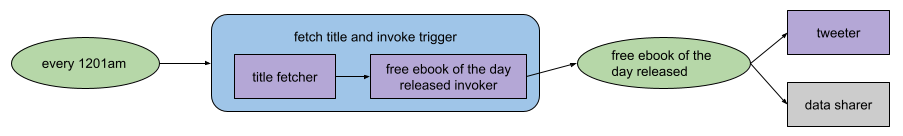
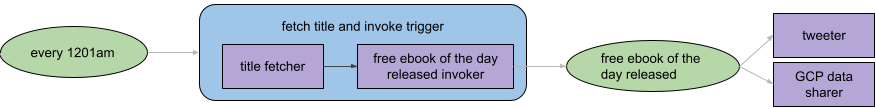
Created gcp-data-sharer action. Updated documentation, cleaned up repo, fixed Dependabot workflow.

diff --git a/gcp-data-sharer/src/main/java/com/mattwelke/packtbookbot/GcpDataSharer.java b/gcp-data-sharer/src/main/java/com/mattwelke/packtbookbot/GcpDataSharer.java
@@ -1,0 +1,116 @@
+package com.mattwelke.packtbookbot;
+
+import java.io.ByteArrayInputStream;
+import java.io.IOException;
+import java.text.DateFormat;
+import java.text.SimpleDateFormat;
+import java.time.Instant;
+import java.util.Base64;
+import java.util.Date;
+import java.util.HashMap;
+import java.util.List;
+import java.util.Map;
+
+import com.google.auth.oauth2.GoogleCredentials;
+import com.google.cloud.bigquery.BigQuery;
+import com.google.cloud.bigquery.BigQueryOptions;
+import com.google.cloud.bigquery.InsertAllRequest;
+import com.google.cloud.bigquery.InsertAllResponse;
+import com.google.cloud.bigquery.TableId;
+import com.owextendedruntimes.actiontest.Action;
+
+/**
+ * Given data about the Packt free book of the day, shares it publicly by
+ * writing it to Google Cloud Platform. Right now, that means inserting a row
+ * into a BigQuery table in a public BigQuery dataset.
+ */
+public class GcpDataSharer extends Action {
+    private static final String datasetName = "public_data";
+    private static final String tableName = "free_ebook_of_the_day";
+
+    /**
+     * Given data about the title, shares it via GCP.
+     */
+    @Override
+    public Map<String, Object> invoke(Map<String, Object> params) throws RuntimeException {
+        try {
+            var data = TitleData.of(params);
+            var bigquery = bigqueryClient(params);
+
+            InsertAllResponse response = bigquery.insertAll(
+                    InsertAllRequest.newBuilder(TableId.of(datasetName, tableName))
+                            .addRow(row(data))
+                            .build());
+
+            if (response.hasErrors()) {
+                var insertErrors = response.getInsertErrors().entrySet();
+                throw new RuntimeException(String.format("failed to insert into BigQuery: %s", insertErrors));
+            }
+
+            return Map.of("bigqueryInsertResponse", response);
+        } catch (Exception ex) {
+            throw new RuntimeException(String.format("failed to share data via GCP: %s", ex.getMessage()), ex);
+        }
+    }
+
+    /**
+     * Given a params map, returns an authenticated BigQuery client.
+     * 
+     * @param params The params map from the action invocation.
+     * @return A BigQuery client build from credentials in the params map.
+     * @throws IOException
+     */
+    private static BigQuery bigqueryClient(Map<String, Object> params) throws IOException {
+        if (!params.containsKey("gcpCreds") || ((String) params.get("gcpCreds")).length() < 1) {
+            throw new IllegalArgumentException("missing param gcpCreds");
+        }
+
+        var gcpCredsBytes = Base64.getDecoder().decode((String) params.get("gcpCreds"));
+
+        GoogleCredentials credentials = GoogleCredentials.fromStream(new ByteArrayInputStream(gcpCredsBytes));
+
+        return BigQueryOptions.newBuilder()
+                .setCredentials(credentials)
+                .build()
+                .getService();
+    }
+
+    /**
+     * Given title data, returns a row to insert into BigQuery.
+     * 
+     * @param data The title data.
+     * @return The row to insert.
+     */
+    private static Map<String, Object> row(TitleData data) {
+        Map<String, Object> rowContent = new HashMap<>();
+
+        DateFormat dateFormat = new SimpleDateFormat("yyyy-MM-dd");
+        Date date = new Date();
+        rowContent.put("day", dateFormat.format(date));
+
+        rowContent.put("title", data.title());
+
+        rowContent.put("publication_date", String.format("%s-%s-01",
+                data.pubDateYear(), PublicationDateMonths.monthNumber(data.pubDateMonth())));
+
+        rowContent.put("authors", data.authors());
+
+        rowContent.put("inserted_at", Instant.now().toString());
+
+        return rowContent;
+    }
+
+    /**
+     * For local testing.
+     * 
+     * @param args
+     */
+    public static void main(String[] args) {
+        new GcpDataSharer().invoke(Map.of(
+                "title", "Hands-On Software Engineering with Python",
+                "pubDateMonth", "October",
+                "pubDateYear", "2018",
+                "authors", List.of("Brian Allbee"),
+                "gcpCreds", (Object) System.getenv("GCP_CREDS")));
+    }
+}

diff --git a/gcp-data-sharer/src/main/java/com/mattwelke/packtbookbot/TitleData.java b/gcp-data-sharer/src/main/java/com/mattwelke/packtbookbot/TitleData.java
@@ -1,0 +1,51 @@
+package com.mattwelke.packtbookbot;
+
+import java.util.List;
+import java.util.Map;
+
+/**
+ * The data for a title obtainable from the free learning URL.
+ */
+public record TitleData(
+        String title,
+        List<String> authors,
+        String pubDateMonth,
+        String pubDateYear) {
+    /**
+     * Creates a record from an OpenWhisk action params map.
+     * 
+     * @param params Params map.
+     * @return The record.
+     */
+    static TitleData of(Map<String, Object> params) throws IllegalArgumentException {
+        if (!params.containsKey("title") || ((String) params.get("title")).length() < 1) {
+            throw new IllegalArgumentException("missing param \"title\"");
+        }
+        String title = (String) params.get("title");
+
+        if (!params.containsKey("authors")) {
+            throw new IllegalArgumentException("missing param \"freeBookURL\"");
+        }
+        List<String> authors = (List<String>) params.get("authors");
+        if (authors.size() < 1) {
+            throw new IllegalArgumentException("param \"authors\" needs at least one author");
+        }
+        for (String author : authors) {
+            if (author.length() < 1) {
+                throw new IllegalArgumentException("each author in param \"authors\" must be at least one character long");
+            }
+        }
+
+        if (!params.containsKey("pubDateMonth") || ((String) params.get("pubDateMonth")).length() < 1) {
+            throw new IllegalArgumentException("missing param \"pubDateMonth\"");
+        }
+        String pubDateMonth = (String) params.get("pubDateMonth");
+
+        if (!params.containsKey("pubDateYear") || ((String) params.get("pubDateYear")).length() < 1) {
+            throw new IllegalArgumentException("missing param \"pubDateYear\"");
+        }
+        String pubDateYear = (String) params.get("pubDateYear");
+
+        return new TitleData(title, authors, pubDateMonth, pubDateYear);
+    }
+}

diff --git a/gcp-data-sharer/src/main/java/com/owextendedruntimes/actiontest/Action.java b/gcp-data-sharer/src/main/java/com/owextendedruntimes/actiontest/Action.java
@@ -1,0 +1,32 @@
+package com.owextendedruntimes.actiontest;
+
+import java.util.Map;
+
+/**
+ * Parent class of all OpenWhisk Java action implementations. OpenWhisk users extend this class and override the invoke
+ * method to implement their actions.
+ */
+public abstract class Action {
+    /**
+     * The cluster context, aka "OpenWhisk variables", implemented in official runtimes by mutating the environment
+     * variables at runtime (no longer allowed by Java 9+). In this runtime, implemented as state contained within the
+     * parent class of the user's action.
+     */
+    protected Map<String, Object> clusterContext;
+
+    /**
+     * Sets the cluster context of the action so that it can be referenced by all invocations of the action if the
+     * OpenWhisk user wants to use it. This function should not be called by the OpenWhisk user.
+     * @param clusterContext The cluster context.
+     */
+    public void setClusterContext(Map<String, Object> clusterContext) {
+        this.clusterContext = clusterContext;
+    }
+
+    /**
+     * The method invoked by the OpenWhisk runtime in response to the action being invoked.
+     * @param input The input to the action during its invocation.
+     * @return The output of the action invocation.
+     */
+    public abstract Map<String, Object> invoke(Map<String, Object> input);
+}

diff --git a/gcp-data-sharer/src/main/java/com/mattwelke/packtbookbot/PublicationDateMonths.java b/gcp-data-sharer/src/main/java/com/mattwelke/packtbookbot/PublicationDateMonths.java
@@ -1,0 +1,33 @@
+package com.mattwelke.packtbookbot;
+
+/**
+ * Normalizes publication date month names.
+ */
+public class PublicationDateMonths {
+    /**
+     * Given a month's full month name, returns a two-digit string representing the
+     * number of the month.
+     * 
+     * Example: September -> "09"
+     * 
+     * @param fullMonthName The full month name.
+     * @return The two-digit string for the number of the month.
+     */
+    public static String monthNumber(final String fullMonthName) {
+        return switch (fullMonthName.toLowerCase()) {
+            case "january" -> "01";
+            case "february" -> "02";
+            case "march" -> "03";
+            case "april" -> "04";
+            case "may" -> "05";
+            case "june" -> "06";
+            case "july" -> "07";
+            case "august" -> "08";
+            case "september" -> "09";
+            case "october" -> "10";
+            case "november" -> "11";
+            case "december" -> "12";
+            default -> throw new IllegalStateException("Invalid full month name: " + fullMonthName);
+        };
+    }
+}

diff --git a/README.md b/README.md
@@ -2,39 +2,75 @@
 
 [![CodeQL](https://github.com/mattwelke/packt-book-bot/actions/workflows/codeql-analysis.yml/badge.svg?branch=main)](https://github.com/mattwelke/packt-book-bot/actions/workflows/codeql-analysis.yml)
 
-Twitter bot (https://twitter.com/PacktBookBot) that tweets on a schedule.
+Bot that tweets to Twitter (https://twitter.com/PacktBookBot) and logs data in BigQuery on GCP on a schedule.
 
-![Screenshot of free eBook of the day tweet](img/free_example.png)
+## Features
 
-## Current features
+### Free eBook of the day - every day at 12:01am UTC
+  
+#### Tweeted from Twitter bot
 
-- Free eBook of the day - every day at 12:01am UTC
+![Screenshot of free eBook of the day tweet](img/tweet_example.png)
 
-## Future features
+#### Logged in a public BigQuery table on GCP (Google Cloud Platform)
 
-- Monitoring for new titles, posting them as they are released (only if Packt Twitter handle doesn't do this already)
+```sql
+SELECT * FROM `packt-book-bot.public_data.free_ebook_of_the_day`
+ORDER BY inserted_at DESC
+```
 
-## Tech stack
+![screenshot of BigQuery results](img/bigquery_results.png)
 
-Written using Java 17, deployed to IBM Cloud Functions using the custom Java 17 runtime from https://github.com/ow-extended-runtimes/java-17.
+Any user authenticated to GCP is able to view this table's schema and query it because of its dataset's IAM configuration:
 
-Uses a periodic trigger to begin processing at 12:01am every day. Uses a custom trigger to decouple the data retrieval from use cases for the data. This enables future use cases like sharing the data on GCP BigQuery in a public dataset and with GCP Pub/Sub with a public topic.
+![Screenshot of BigQuery dataset IAM](img/bigquery_iam.png)
 
-### Architecture
+## Tech stack & architecture
+
+Written using Java 16, deployed to IBM Cloud Functions using the custom Java 17 runtime from https://github.com/ow-extended-runtimes/java-17.
+
+Uses a periodic trigger to begin processing at 12:01am every day. Uses a custom trigger to decouple the data retrieval from use cases for the data. This enables multiple use cases for the fetched data such as tweeting from a Twitter bot and building a public BigQuery dataset on GCP. In the future, this might include publishing to a GCP Pub/Sub topic too.
+
+Separate OpenWhisk actions run to accomplish each use case:
+
+### title fetcher
+
+Java action that scrapes the packtpub.com site to get which title is the free eBook of the day, as well additional info useful for logging, like publication date and author(s).
+
+Source code located in `title-fetcher` directory.
+
+### free ebook of the day invoker
+
+*note: not present in repo*
+
+Simple JavaScript action based on README in https://github.com/apache/openwhisk-client-js. 
+Serves as "glue" to trigger a custom event representing an eBook of the day being released. Used in an OpenWhisk sequence with the title fetcher action.
+
+This exists in the architecture as a separate action only because there is no official Java client for OpenWhisk right now. If a Java client existed, it would be simpler to not have this action (and therefore, not have a sequence containing this action and the title fetcher action) and just have the title fetcher action trigger the event after fetching the title data.
+
+### tweeter
+
+Java action that, upon a free eBook of the day being released, tweets a message about the title. It attempts to obtain the product page URL (ex. https://www.packtpub.com/product/learn-pfsense-2-4/9781789343113) before creating the Tweet by performing more web scraping because including the product page URL in the tweet body results in Twitter rendering a nicer-looking Tweet with an image preview. If this additional web scraping fails, it falls back to a minimal tweet body formed from just the title data from the event, and links the tweet reader to the static URL of the free learning page (https://www.packtpub.com/free-learning).
+
+### GCP data sharer
+
+Java action that, upon a free eBook of the day being released, uses the BigQuery streaming API to insert a row into a BigQuery table in a public dataset. It does attempt to perform additional web scraping. It inserts only the data from the event into BigQuery.
+
+### Diagram
 
 Legend:
 
 * Green oval = trigger
 * Blue rounded rectangle = sequence
 * Purple rectangle = action
-* Grey rectangle = potential future action
 
 ![architecture diagram](img/architecture.png)
 
-**Why Java?**
+**Why Java 16?**
 
-* I wanted to practice my Java.
-* For this use case, slow startup speed (about half a second in this case) is good enough for the use case.
+* Not another supported OpenWhisk programming langauge because I prefer working with compiled programming languages and wanted to practice my Java.
+* Not Java 17, despite deploying to a Java 17 runtime, because GitHub's CodeQL only works with up to Java 16 right now.
+* Even though Java has a relatively slow startup speed compared to other supported OpenWhisk programming languages, this is not interactive code. Users aren't waiting on it. A few extra seconds doesn't matter.
 
 **Why IBM Cloud?**
 
@@ -42,3 +78,17 @@ Legend:
   * This includes invocations.
   * This also includes periodic scheduled events to trigger them ([OpenWhisk alarms](https://github.com/apache/openwhisk-package-alarms/blob/master/provider/lib/cronAlarm.js)).
 * Their FaaS service is powered by the open source FaaS project [Apache OpenWhisk](https://openwhisk.apache.org/)! 
+
+**Why BigQuery?**
+
+* Good for both huge and tiny datasets. Tiny datasets fit within their free tier.
+* Easy to share data publicly via GCP IAM for BigQuery (https://cloud.google.com/bigquery/public-data).
+
+**Why multi cloud?**
+
+Using the best tool for the job.
+
+* IBM Cloud has a better free tier for event based FaaS (GCP's Cloud Scheduler has a max number of jobs in the free tier).
+* Google Cloud has a better free tier for exposing data publicly so that it can be queried with SQL.
+  * IBM Cloud has SQL Query which is similar to GCP's BigQuery in that you can query data with SQL, including public data, but it charges based on the number of cloud object storage object reads. This would add up quickly for this use case. BigQuery only charges per data scanned, which is better for this use case.
+  * People who want to use this data are more likely to be familiar with GCP than IBM Cloud.
